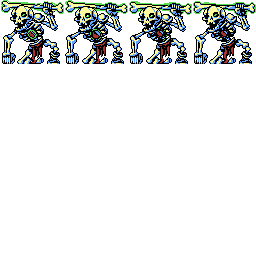
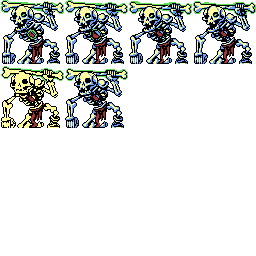
Attack sounds and effects and enemy flinch

Changed region(s): [[0.0, 0.25, 0.5, 0.5]]

diff --git a/src/scenes/battle.ts b/src/scenes/battle.ts
@@ -110,6 +110,7 @@ export default class BattleScene extends BaseScene {
   soundSelect!: Phaser.Sound.BaseSound;
   soundMoveCursor!: Phaser.Sound.BaseSound;
   soundText!: Phaser.Sound.BaseSound;
+  soundPartyAttack!: { [key in Characters]: Phaser.Sound.BaseSound };
 
   // Battle logic
   battleState!: BattleState;
@@ -146,6 +147,9 @@ export default class BattleScene extends BaseScene {
     this.load.audio('select', 'audio/select.mp3');
     this.load.audio('moveCursor', 'audio/move_cursor.mp3');
     this.load.audio('soundText', 'audio/text.mp3');
+    this.load.audio('soundRojoAttack', 'audio/rojo_attack.mp3');
+    this.load.audio('soundBlueAttack', 'audio/blue_attack.mp3');
+    this.load.audio('soundMidoriAttack', 'audio/midori_attack.mp3');
   }
 
   create() {
@@ -181,6 +185,11 @@ export default class BattleScene extends BaseScene {
     this.soundSelect = this.sound.add('select');
     this.soundMoveCursor = this.sound.add('moveCursor');
     this.soundText = this.sound.add('soundText');
+    this.soundPartyAttack = {
+      [Characters.Rojo]: this.sound.add('soundRojoAttack'),
+      [Characters.Blue]: this.sound.add('soundBlueAttack'),
+      [Characters.Midori]: this.sound.add('soundMidoriAttack'),
+    };
 
     this.spheres = [];
     for (let y = 0; y < GRID_HEIGHT; y++) {
@@ -413,6 +422,12 @@ class Skelly {
       frames: scene.anims.generateFrameNumbers('enemySkelly', { start: 0, end: 3 }),
       repeat: -1,
     });
+    scene.anims.create({
+      key: 'enemySkellyHurt',
+      frameRate: 10,
+      frames: scene.anims.generateFrameNumbers('enemySkelly', { start: 4, end: 5 }),
+      repeat: 0,
+    });
   }
 
   constructor(scene: BattleScene, x: number, y: number) {
@@ -433,10 +448,15 @@ class Skelly {
       animateFaded(this.scene, this.ground, faded, 400),
     ]);
   }
+
+  async animateHurt() {
+    await asyncAnimation(this.sprite, 'enemySkellyHurt');
+    this.sprite.play('enemySkellyIdle');
+  }
 }
 
 class PartyMember {
-  scene: Phaser.Scene;
+  scene: BattleScene;
   character: Characters;
   sprite: Phaser.GameObjects.Sprite;
   ground: Phaser.GameObjects.Image;
@@ -455,6 +475,7 @@ class PartyMember {
       });
       scene.load.image(`party[${character}]Ground`, `party/${character}_ground.png`);
     }
+    scene.load.spritesheet('partyAttackEffects', 'effects/party_attacks.png', { frameWidth: 96, frameHeight: 96 });
   }
 
   static create(scene: BattleScene) {
@@ -493,6 +514,30 @@ class PartyMember {
         frames: [4, 5, 6, 7, 8, 9, 10, 11, 12, 13, 14, 15, 16, 16, 17, 17],
       }),
     });
+    scene.anims.create({
+      key: `party[${Characters.Rojo}]AttackEffect`,
+      frameRate: 10,
+      repeat: 0,
+      frames: scene.anims.generateFrameNumbers('partyAttackEffects', {
+        frames: [0, 0, 0, 1, 2, 3, 4, 5],
+      }),
+    });
+    scene.anims.create({
+      key: `party[${Characters.Blue}]AttackEffect`,
+      frameRate: 10,
+      repeat: 0,
+      frames: scene.anims.generateFrameNumbers('partyAttackEffects', {
+        frames: [0, 0, 6, 7, 8, 9, 10, 11, 12, 13],
+      }),
+    });
+    scene.anims.create({
+      key: `party[${Characters.Midori}]AttackEffect`,
+      frameRate: 10,
+      repeat: 0,
+      frames: scene.anims.generateFrameNumbers('partyAttackEffects', {
+        frames: [0, 14, 15, 16, 17, 18, 19, 20, 21, 22, 23, 24],
+      }),
+    });
   }
 
   constructor(scene: BattleScene, character: Characters, x: number, y: number) {
@@ -526,6 +571,16 @@ class PartyMember {
       }
     };
     this.sprite.on('animationupdate', handleAnimationUpdate);
+
+    // Effect frames are timed to match attack so we can play it without awaiting
+    const effectSprite = this.scene.add.sprite(
+      this.scene.enemySkelly.sprite.x,
+      this.scene.enemySkelly.sprite.y,
+      'partyAttackEffects',
+      0
+    );
+    asyncAnimation(effectSprite, `party[${this.character}]AttackEffect`).then(() => effectSprite.destroy());
+
     await asyncAnimation(this.sprite, `party[${this.character}]Attack`);
     this.sprite.off('animationupdate', handleAnimationUpdate);
     this.sprite.play(`party[${this.character}]Idle`);
@@ -1387,8 +1442,10 @@ class TurnResultPhaseState extends State {
           scene.party[character].animateAttack(() => {
             damageNumbers[k].animateAppear();
             scene.healthEnemy.animateDamage(damage, CHARACTER_COLORS[character]);
+            scene.enemySkelly.animateHurt();
           })
         );
+        scene.soundPartyAttack[character].play();
         await wait(scene, 600);
       }
 
